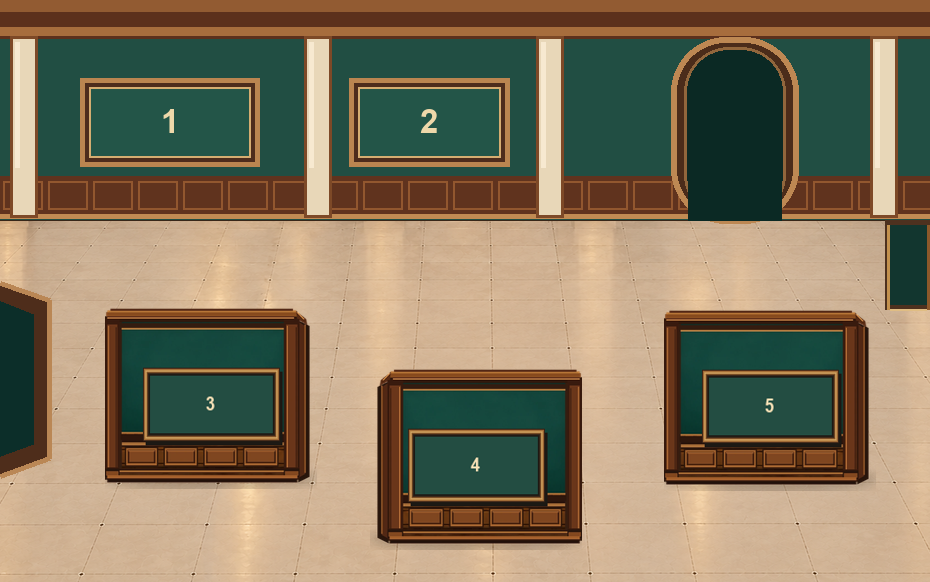
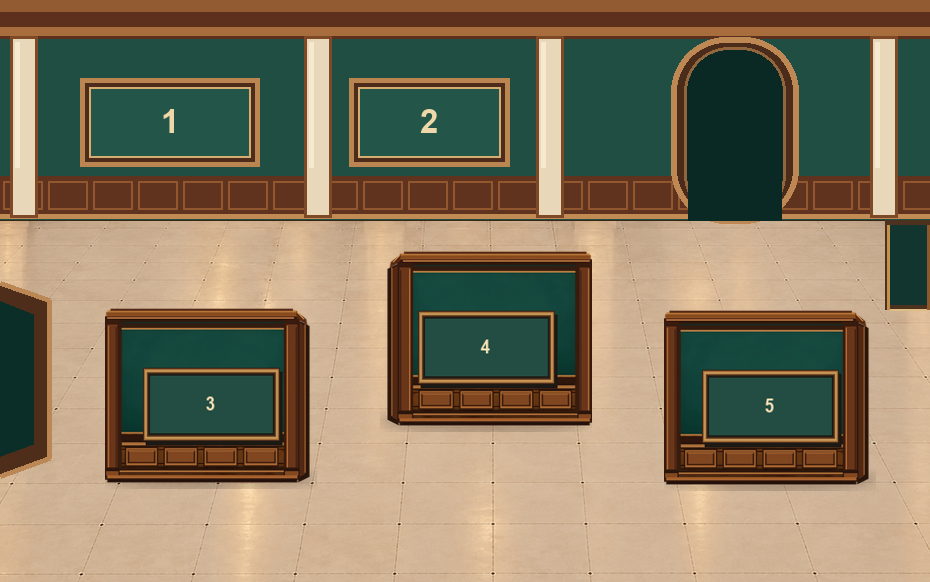
feat(a18): preserve approved gallery2 layout and gallery3 draft editor

Changed region(s): [[0.4054, 0.433, 0.6548, 0.9588]]

diff --git a/qa/build_gallery3_preview.py b/qa/build_gallery3_preview.py
@@ -1,0 +1,45 @@
+from pathlib import Path
+from PIL import Image,ImageDraw,ImageFont
+import json,shutil
+root=Path(__file__).resolve().parents[1]; src=root/'rooms/gallery2'; out=root/'rooms/gallery3';out.mkdir(exist_ok=True)
+bg=Image.open(src/'architecture.png').convert('RGBA')
+d=ImageDraw.Draw(bg)
+# Restore rear wall where gallery2 had north doorway: gallery3 has south/east exits.
+d.rectangle((653,36,816,222),fill='#285144')
+d.rectangle((653,177,816,216),fill='#60331e')
+for x in range(657,816,45):d.rectangle((x,181,x+38,208),outline='#92572f',width=2)
+d.line((653,216,816,216),fill='#c18b53',width=5)
+# West entrance of gallery2 is sealed in gallery3.
+d.polygon([(0,280),(52,299),(52,462),(0,479)],fill='#d5c5a7')
+d.line([(0,280),(52,299),(52,462),(0,479)],fill='#7d4927',width=5)
+# Gallery3 east portal -> Gallery5, keep passage at right foreground.
+d.polygon([(872,282),(929,270),(929,488),(872,463)],fill='#4e2d1b')
+d.polygon([(890,300),(929,291),(929,466),(890,449)],fill='#0c2e29')
+d.line([(872,282),(890,301),(890,448),(872,463)],fill='#ba8755',width=5)
+# Gallery3 south portal -> Gallery1: floor-edge passage. Deliberately leave a clear strip.
+d.polygon([(394,535),(544,535),(562,581),(375,581)],fill='#6d4a32')
+d.polygon([(408,542),(530,542),(541,581),(395,581)],fill='#2a4038')
+d.line([(394,535),(544,535)],fill='#c49963',width=5)
+d.line([(375,581),(394,535)],fill='#ad7a4c',width=4)
+d.line([(562,581),(544,535)],fill='#ad7a4c',width=4)
+# Gallery3: three back-wall art frames. Independent art walls two, placed asymmetrically.
+for i,x,w in [(1,69,178),(2,336,175),(3,601,175)]:
+ d.rectangle((x,78,x+w,164),fill='#4d2c1c',outline='#ba8550',width=5)
+ d.rectangle((x+9,87,x+w-9,155),fill='#235548',outline='#d5ad71',width=2)
+ font=ImageFont.truetype('C:/Windows/Fonts/arialbd.ttf',33)
+ d.text((x+w/2,120),str(i),font=font,anchor='mm',fill='#eed8aa')
+bg.save(out/'architecture.png')
+Image.new('RGBA',(930,582),(0,0,0,0)).save(out/'foreground.png')
+for n in (4,5):
+ shutil.copy2(root/'rooms/gallery1'/f'wall{n}.png',out/f'wall{n}.png')
+objects=[('wall4',105,301,240,182),('wall5',598,354,240,182)]
+room={'schema':'a18-gallery-editor/room-v1','id':'gallery3','name':'展示室3','subtitle':'Gallery3 draft - asymmetric viewing route','size':{'width':930,'height':582},'entrance':'South: gallery1','exit':'East: gallery5 (opens at museum level 6)','background':'rooms/gallery3/architecture.png','foreground':'rooms/gallery3/foreground.png','objects':[{'id':n,'label':n+' (draft)','image':f'rooms/gallery3/{n}.png','rect':{'x':x,'y':y,'w':w,'h':h}} for n,x,y,w,h in objects],'limits':{'left':40,'right':40,'top':270,'bottom':18},'layoutRevision':'gallery3-concept-A-20261028','status':'unapproved visual layout proposal','notes':'Same art direction and floor as gallery1/gallery2. 3 rear frames + 2 independent walls. South and east passages draft; collision and character layering not implemented.'}
+(out/'room.json').write_text(json.dumps(room,ensure_ascii=True,indent=2)+'\n')
+catalog=root/'rooms/catalog.json';data=json.loads(catalog.read_text(encoding='utf-8'))
+assert [x['id'] for x in data['rooms']]==['gallery1','gallery2']
+data['rooms'].append({'id':'gallery3','name':'Gallery 3 (draft)','config':'rooms/gallery3/room.json'})
+catalog.write_text(json.dumps(data,ensure_ascii=True,indent=2)+'\n')
+for n,x,y,w,h in objects:
+ a=Image.open(out/f'{n}.png').convert('RGBA').resize((w,h));bg.alpha_composite(a,(x,y))
+bg.save(out/'gallery3_concept_A.png')
+print('Gallery3 draft built, 930x582, 5 frames, south+east passages')

diff --git a/qa/check_gallery3_live.py b/qa/check_gallery3_live.py
@@ -1,0 +1,30 @@
+from pathlib import Path
+from http.server import ThreadingHTTPServer,SimpleHTTPRequestHandler
+from functools import partial
+from threading import Thread
+from playwright.sync_api import sync_playwright
+root=Path(__file__).resolve().parents[1]
+class Quiet(SimpleHTTPRequestHandler):
+ def log_message(self,*args):pass
+server=ThreadingHTTPServer(('127.0.0.1',0),partial(Quiet,directory=str(root)))
+Thread(target=server.serve_forever,daemon=True).start()
+try:
+ with sync_playwright() as pw:
+  browser=pw.chromium.launch(headless=True,executable_path=r'C:\Program Files\Google\Chrome\Application\chrome.exe',args=['--no-sandbox'])
+  for width in (1180,390):
+   ctx=browser.new_context(viewport={'width':width,'height':850})
+   page=ctx.new_page();errors=[]
+   page.on('pageerror',lambda e:errors.append(str(e)))
+   res=page.goto(f'http://127.0.0.1:{server.server_port}/?room=gallery3',wait_until='networkidle')
+   assert res.status==200
+   page.wait_for_function('window.__A18_LAYOUT_EDITOR__ && window.__A18_LAYOUT_EDITOR__.getState().roomId === "gallery3"')
+   state=page.evaluate('window.__A18_LAYOUT_EDITOR__.getState()')
+   assert len(state['objects'])==2,state
+   assert all(e.evaluate('e=>e.complete && e.naturalWidth>0') for e in page.locator('#stage img').all())
+   assert not errors,errors
+   page.screenshot(path=str(root/'rooms/gallery3'/f'editor_gallery3_{width}.png'),full_page=True)
+   print('PASS gallery3',width,state['objects'])
+   ctx.close()
+  browser.close()
+finally:
+ server.shutdown();server.server_close()

diff --git a/qa/approve_gallery2.py b/qa/approve_gallery2.py
@@ -1,0 +1,24 @@
+from pathlib import Path
+from PIL import Image
+import json
+root=Path(__file__).resolve().parents[1]
+folder=root/'rooms/gallery2'
+p=folder/'room.json'
+r=json.loads(p.read_text(encoding='utf-8'))
+assert r['id']=='gallery2' and r['size']=={'width':930,'height':582}
+expected={'wall3':(105,308,212,181),'wall4':(380,251,212,181),'wall5':(664,310,212,181)}
+assert {o['id'] for o in r['objects']}==set(expected)
+for o in r['objects']:
+ x,y,w,h=expected[o['id']]
+ o['rect']={'x':x,'y':y,'w':w,'h':h}
+r['subtitle']='A layout approved 2026-10-28'
+r['layoutRevision']='A-approved-user-positions-20261028'
+r['status']='layout approved; game implementation pending'
+r['notes']='User approved exact JSON positions. Keep architecture and entrance/exit draft status separate. Gameplay collision, character depth, camera, door transitions and decorations not yet validated.'
+p.write_text(json.dumps(r,ensure_ascii=True,indent=2)+'\n',encoding='utf-8')
+im=Image.open(folder/'architecture.png').convert('RGBA')
+for o in r['objects']:
+ b=o['rect']; a=Image.open(root/o['image']).convert('RGBA').resize((b['w'],b['h']))
+ im.alpha_composite(a,(b['x'],b['y']))
+im.save(folder/'gallery2_A_actual_assets_preview.png')
+print('APPROVED POSITIONS',expected)
